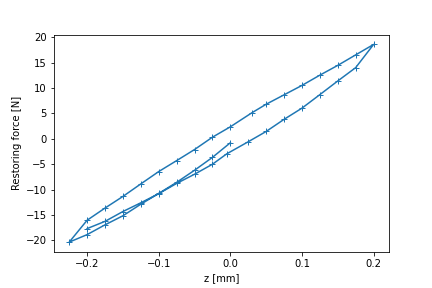
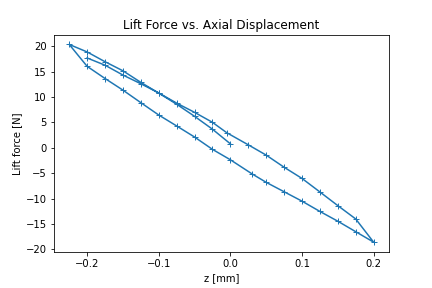
corrections to experiment 3 + 4

diff --git a/skylab_restoring_force_experiment_4.py b/skylab_restoring_force_experiment_4.py
@@ -102,9 +102,10 @@ plt.xlabel('time [s]')
 plt.ylabel('Corrected restoring force [N]')
 
 plt.figure()
-plt.plot(z,corrected_force,'-+')
+plt.plot(z,-corrected_force,'-+')
 plt.xlabel('z [mm]')
-plt.ylabel('Restoring force [N]')
+plt.ylabel('Lift force [N]')
+plt.title('Lift Force vs. Axial Displacement')
 plt.savefig('./plots/experiment-4-corrected-force.pdf')
 plt.savefig('./plots/experiment-4-corrected-force.png')
 

diff --git a/skylab_restoring_force_experiment_3.py b/skylab_restoring_force_experiment_3.py
@@ -116,7 +116,6 @@ plt.plot(z,corrected_force,'-+')
 plt.xlabel('z [mm]')
 plt.ylabel('Restoring force [N]')
 plt.savefig('./plots/experiment-3-corrected-force.pdf')
-
 # %% Calculate Spring constant
 kz = np.mean(np.gradient(corrected_force[0:5],z[0:5]))
 print("stiffness kz = " + str(round(kz)) + " N/mm")
